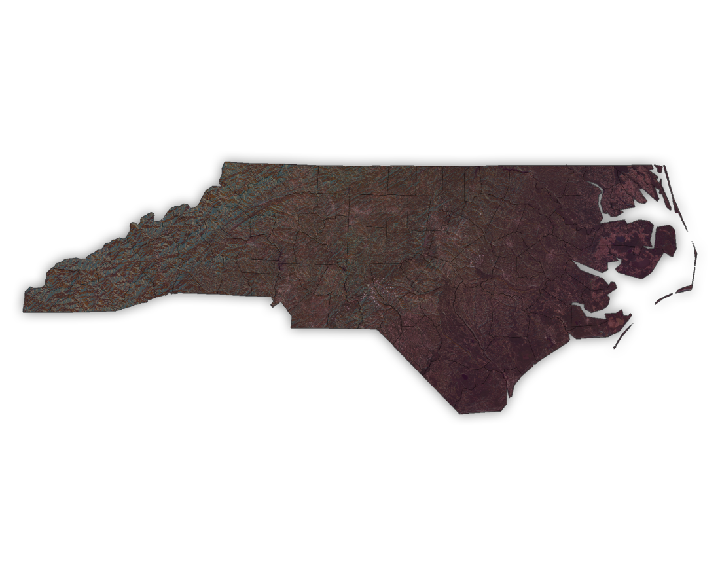
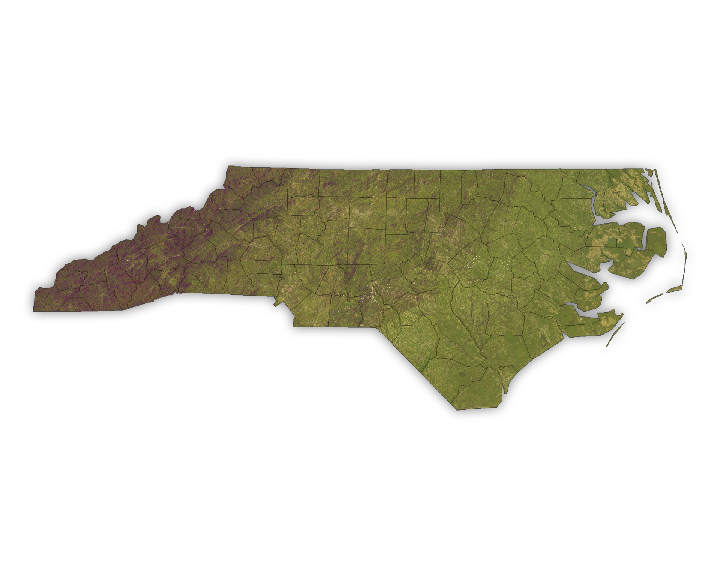
fix bug introduced in last merge. bands now treated as int not vect

Changed region(s): [[0.0306, 0.25, 0.9778, 0.75]]

diff --git a/README.md b/README.md
@@ -1,10 +1,7 @@
-raytrix
+ezwarp
 ================
 
 <!-- README.md is generated from README.Rmd. Please edit that file -->
-
-# ezwarp
-
 <!-- badges: start -->
 
 [![Lifecycle:
@@ -215,19 +212,19 @@ nc.mask.mat <- ezwarp(x=esri_sat, y=f_sf, res=250, cutline = f_sf,
                    out_class = 'matrix')
 
 # make the map
-pal.cols <- c(scico::scico(5, palette = "vikO"))
+pal.cols <- c(scico::scico(5, palette = "buda"))
 
 nc_dtm.mat %>%
   sphere_shade(
     texture = create_texture(pal.cols[1], pal.cols[2], pal.cols[3],
                              pal.cols[4], pal.cols[5]),zscale = 5) %>%
    add_overlay(scales::rescale(nc.mask.mat, to = c(0, 1)),
-    alphalayer = 0.7, rescale_original = FALSE) %>%
+    alphalayer = 0.8, rescale_original = TRUE) %>%
   add_overlay(generate_polygon_overlay(
       f_sf, extent = raster::extent(attributes(nc_dtm.mat)$extent),
       heightmap = nc_dtm.mat, palette = NA),
-      alphalayer = 0.7, rescale_original = TRUE) %>%
-  plot_3d(nc_dtm.mat, zscale=70, theta = 0, phi=90, zoom=0.5, windowsize = (c(1100,600))) 
+      alphalayer = 0.7) %>%
+  plot_3d(nc_dtm.mat, zscale=70, theta = 0, phi=90, zoom=0.5, windowsize = (c(2200,1200))) 
   render_snapshot(clear = FALSE)
 ```
 
